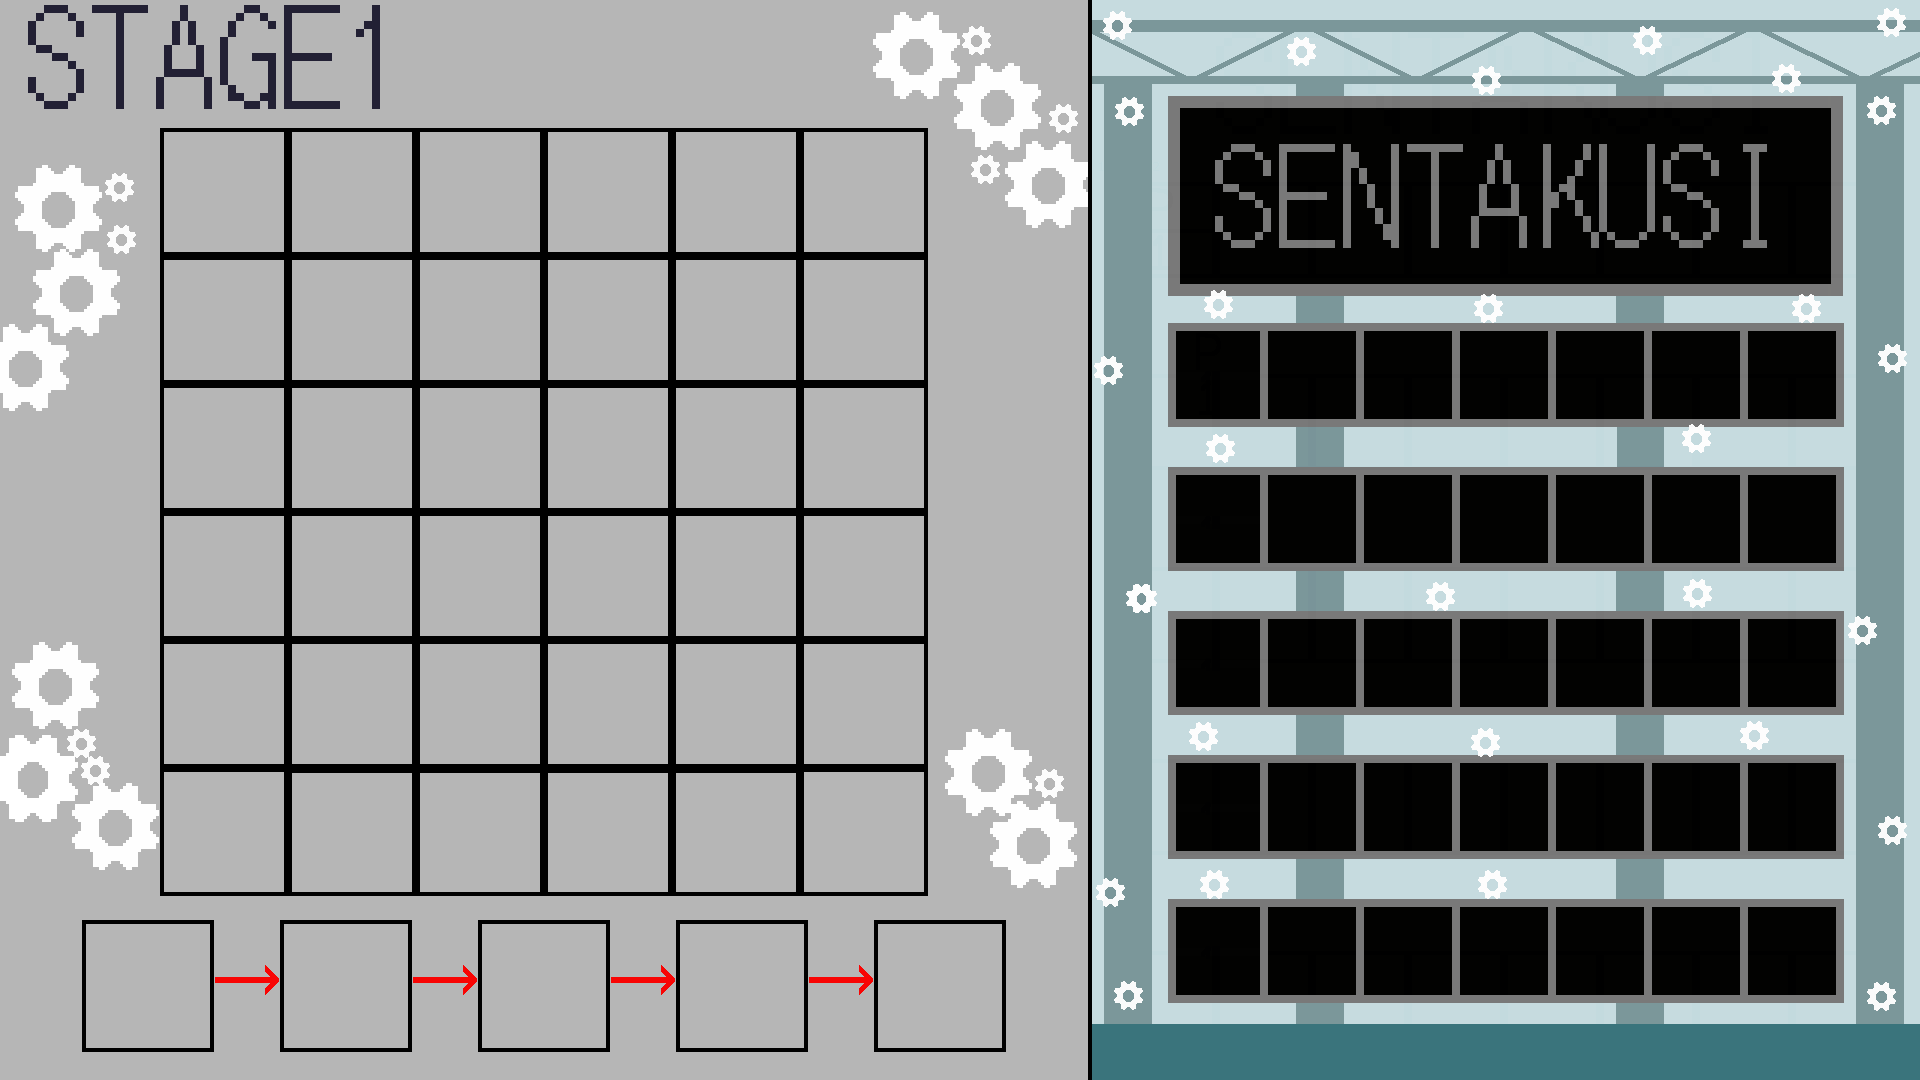
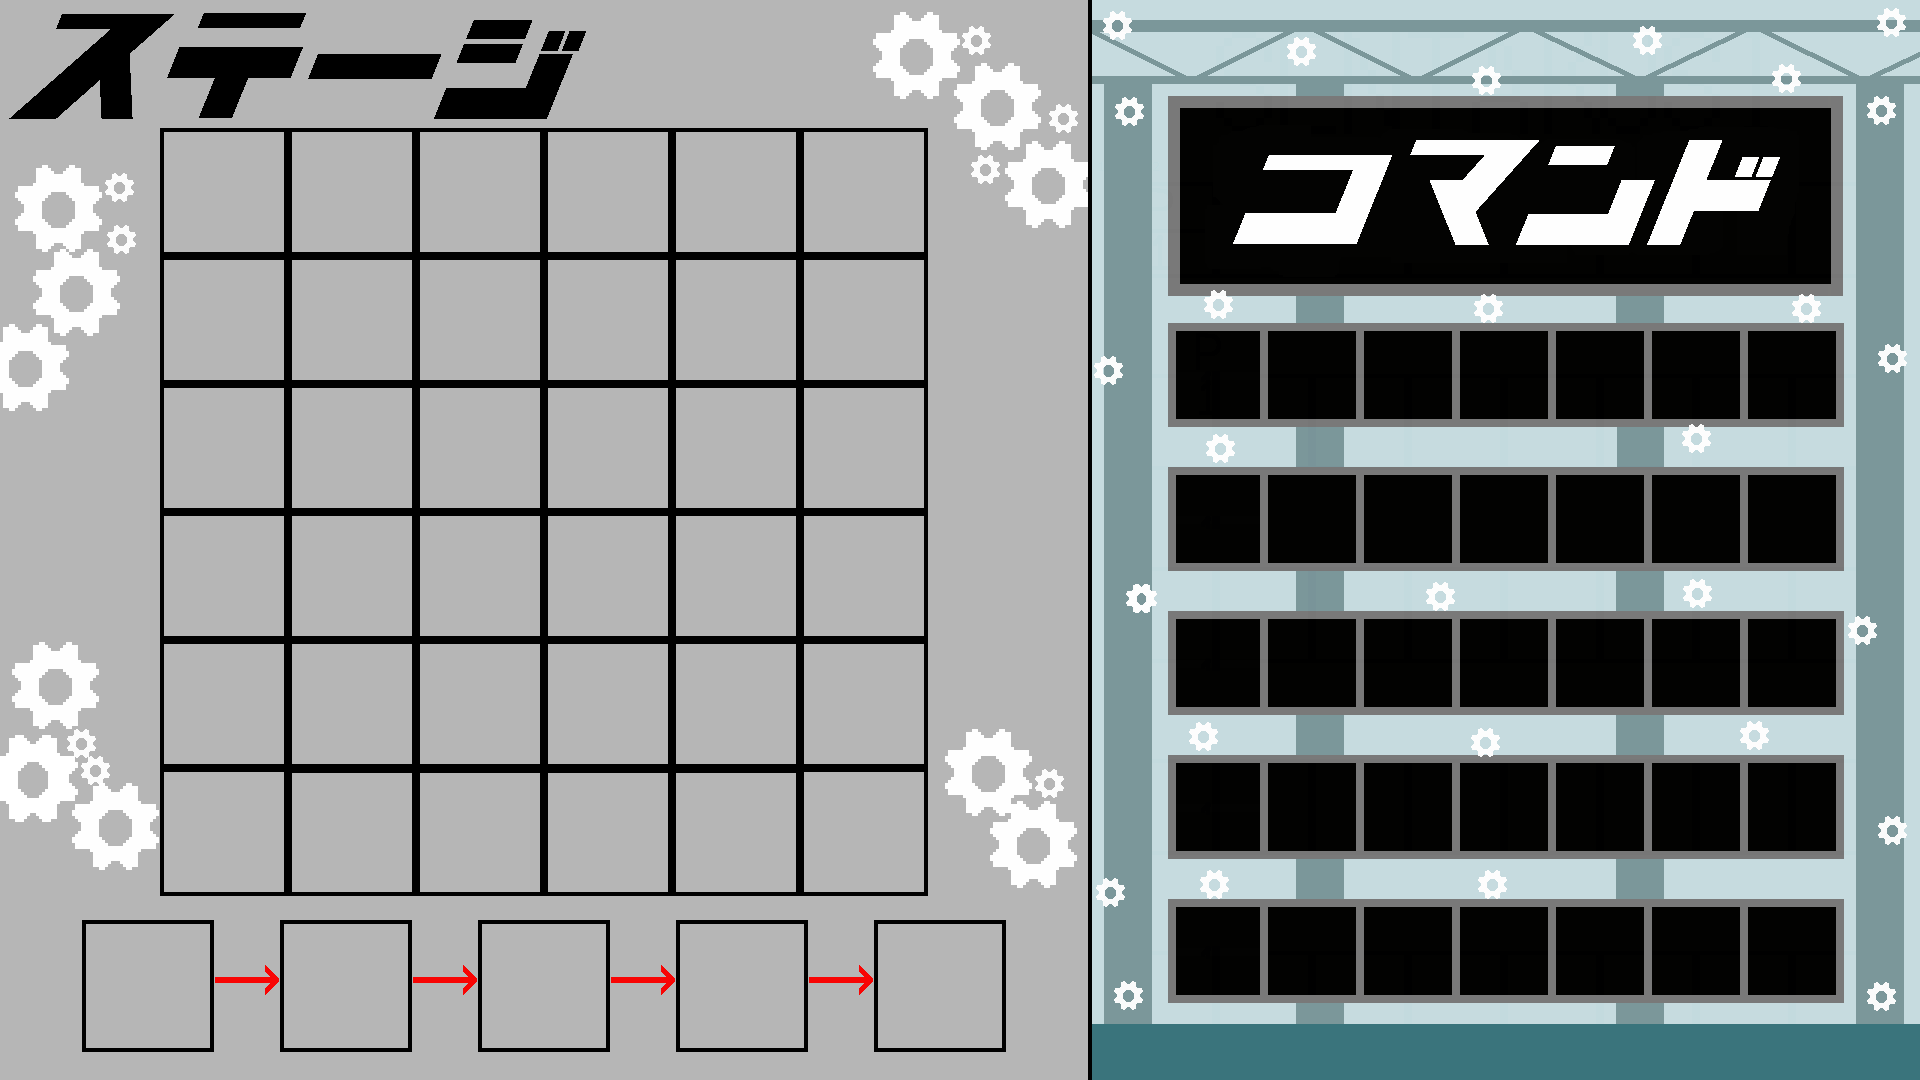
６×６変更と数字の位置合わせ

Changed region(s): [[0.625, 0.1222, 0.9375, 0.2444], [0.0, 0.0, 0.3125, 0.1222]]

diff --git a/main.cpp b/main.cpp
@@ -280,12 +280,12 @@ int WINAPI WinMain(_In_ HINSTANCE hInstance, _In_opt_ HINSTANCE hPrevInstance, _
 			if (levelNum == static_cast<int>(LevelInfo::LEVEL1) || levelNum == static_cast<int>(LevelInfo::LEVEL2) || levelNum == static_cast<int>(LevelInfo::LEVEL5))
 			{
 				DrawGraph(0, 0, haikei5X5, TRUE);
-				DrawGraph(650, 5, noGraph_[levelNum], TRUE);
+				DrawGraph(600, 0, noGraph_[levelNum], TRUE);
 			}
 			if (levelNum == static_cast<int>(LevelInfo::LEVEL3)|| levelNum == static_cast<int>(LevelInfo::LEVEL4) || levelNum == static_cast<int>(LevelInfo::LEVEL6))
 			{
 				DrawGraph(0, 0, haikei6X6, TRUE);
-				DrawGraph(650, 5, noGraph_[levelNum], TRUE);
+				DrawGraph(600, 0, noGraph_[levelNum], TRUE);
 			}
 
 			map_->Draw(levelNum, graphHandle, cardboardHandle, truckHandle);
